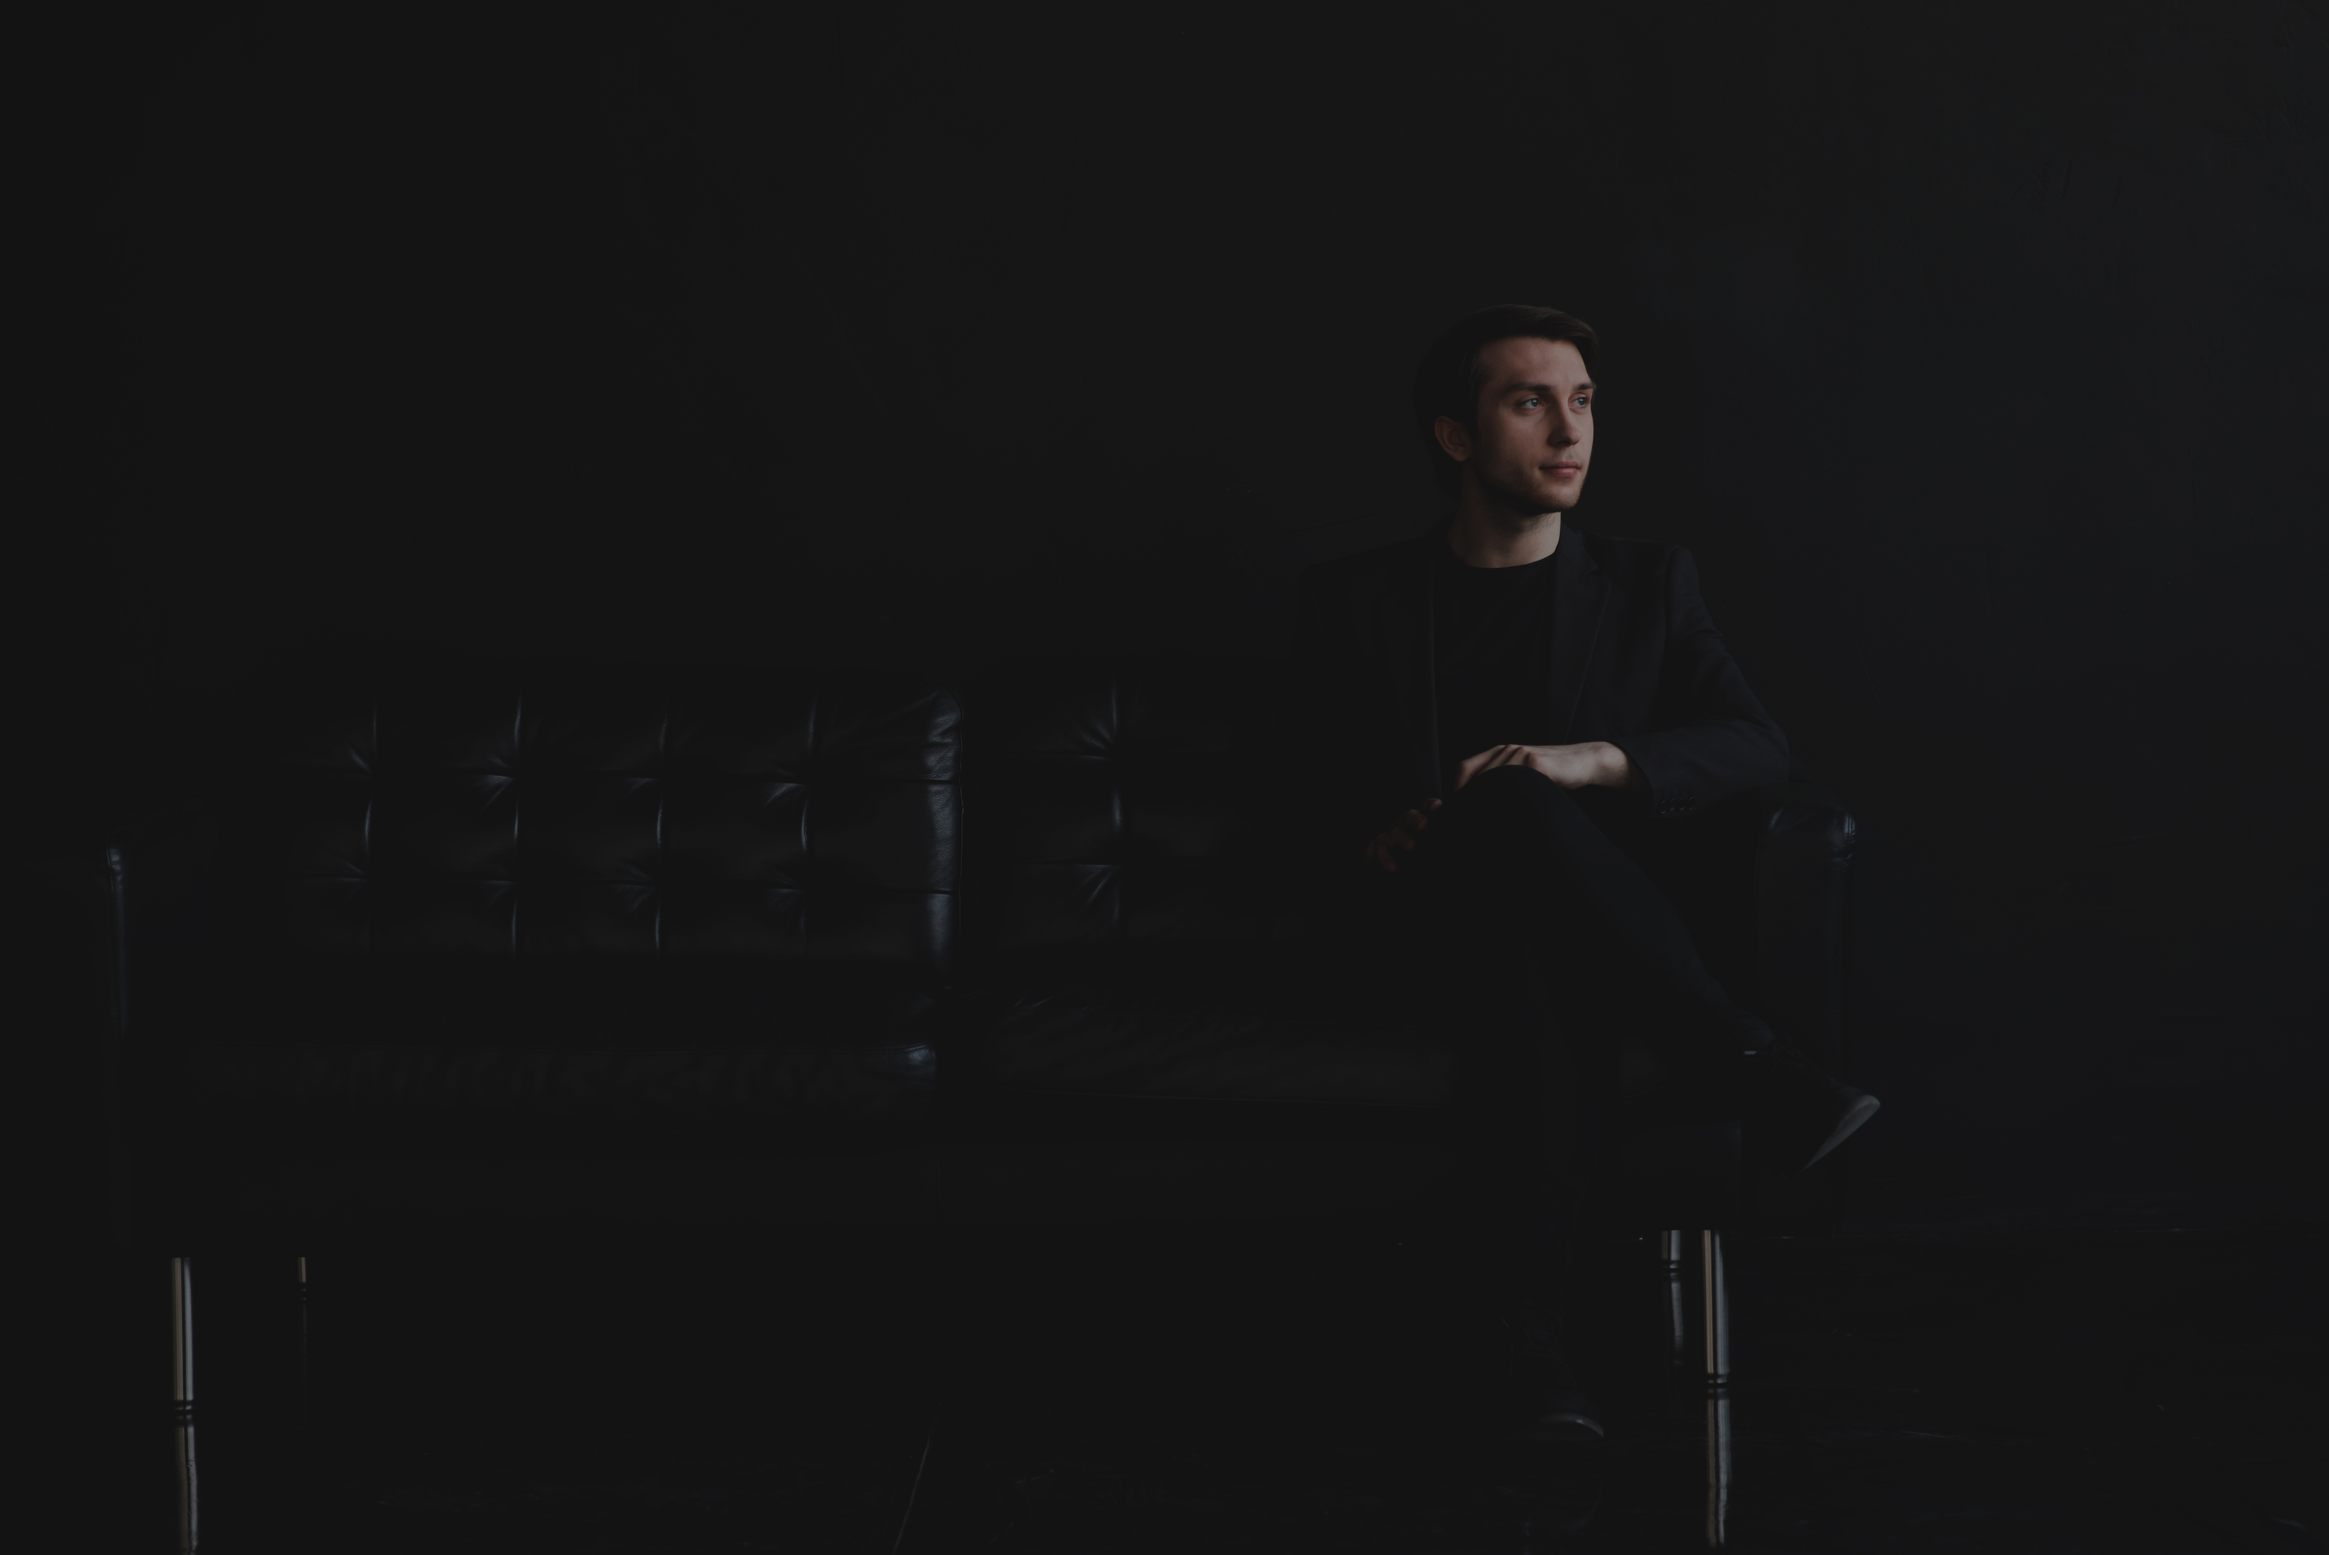
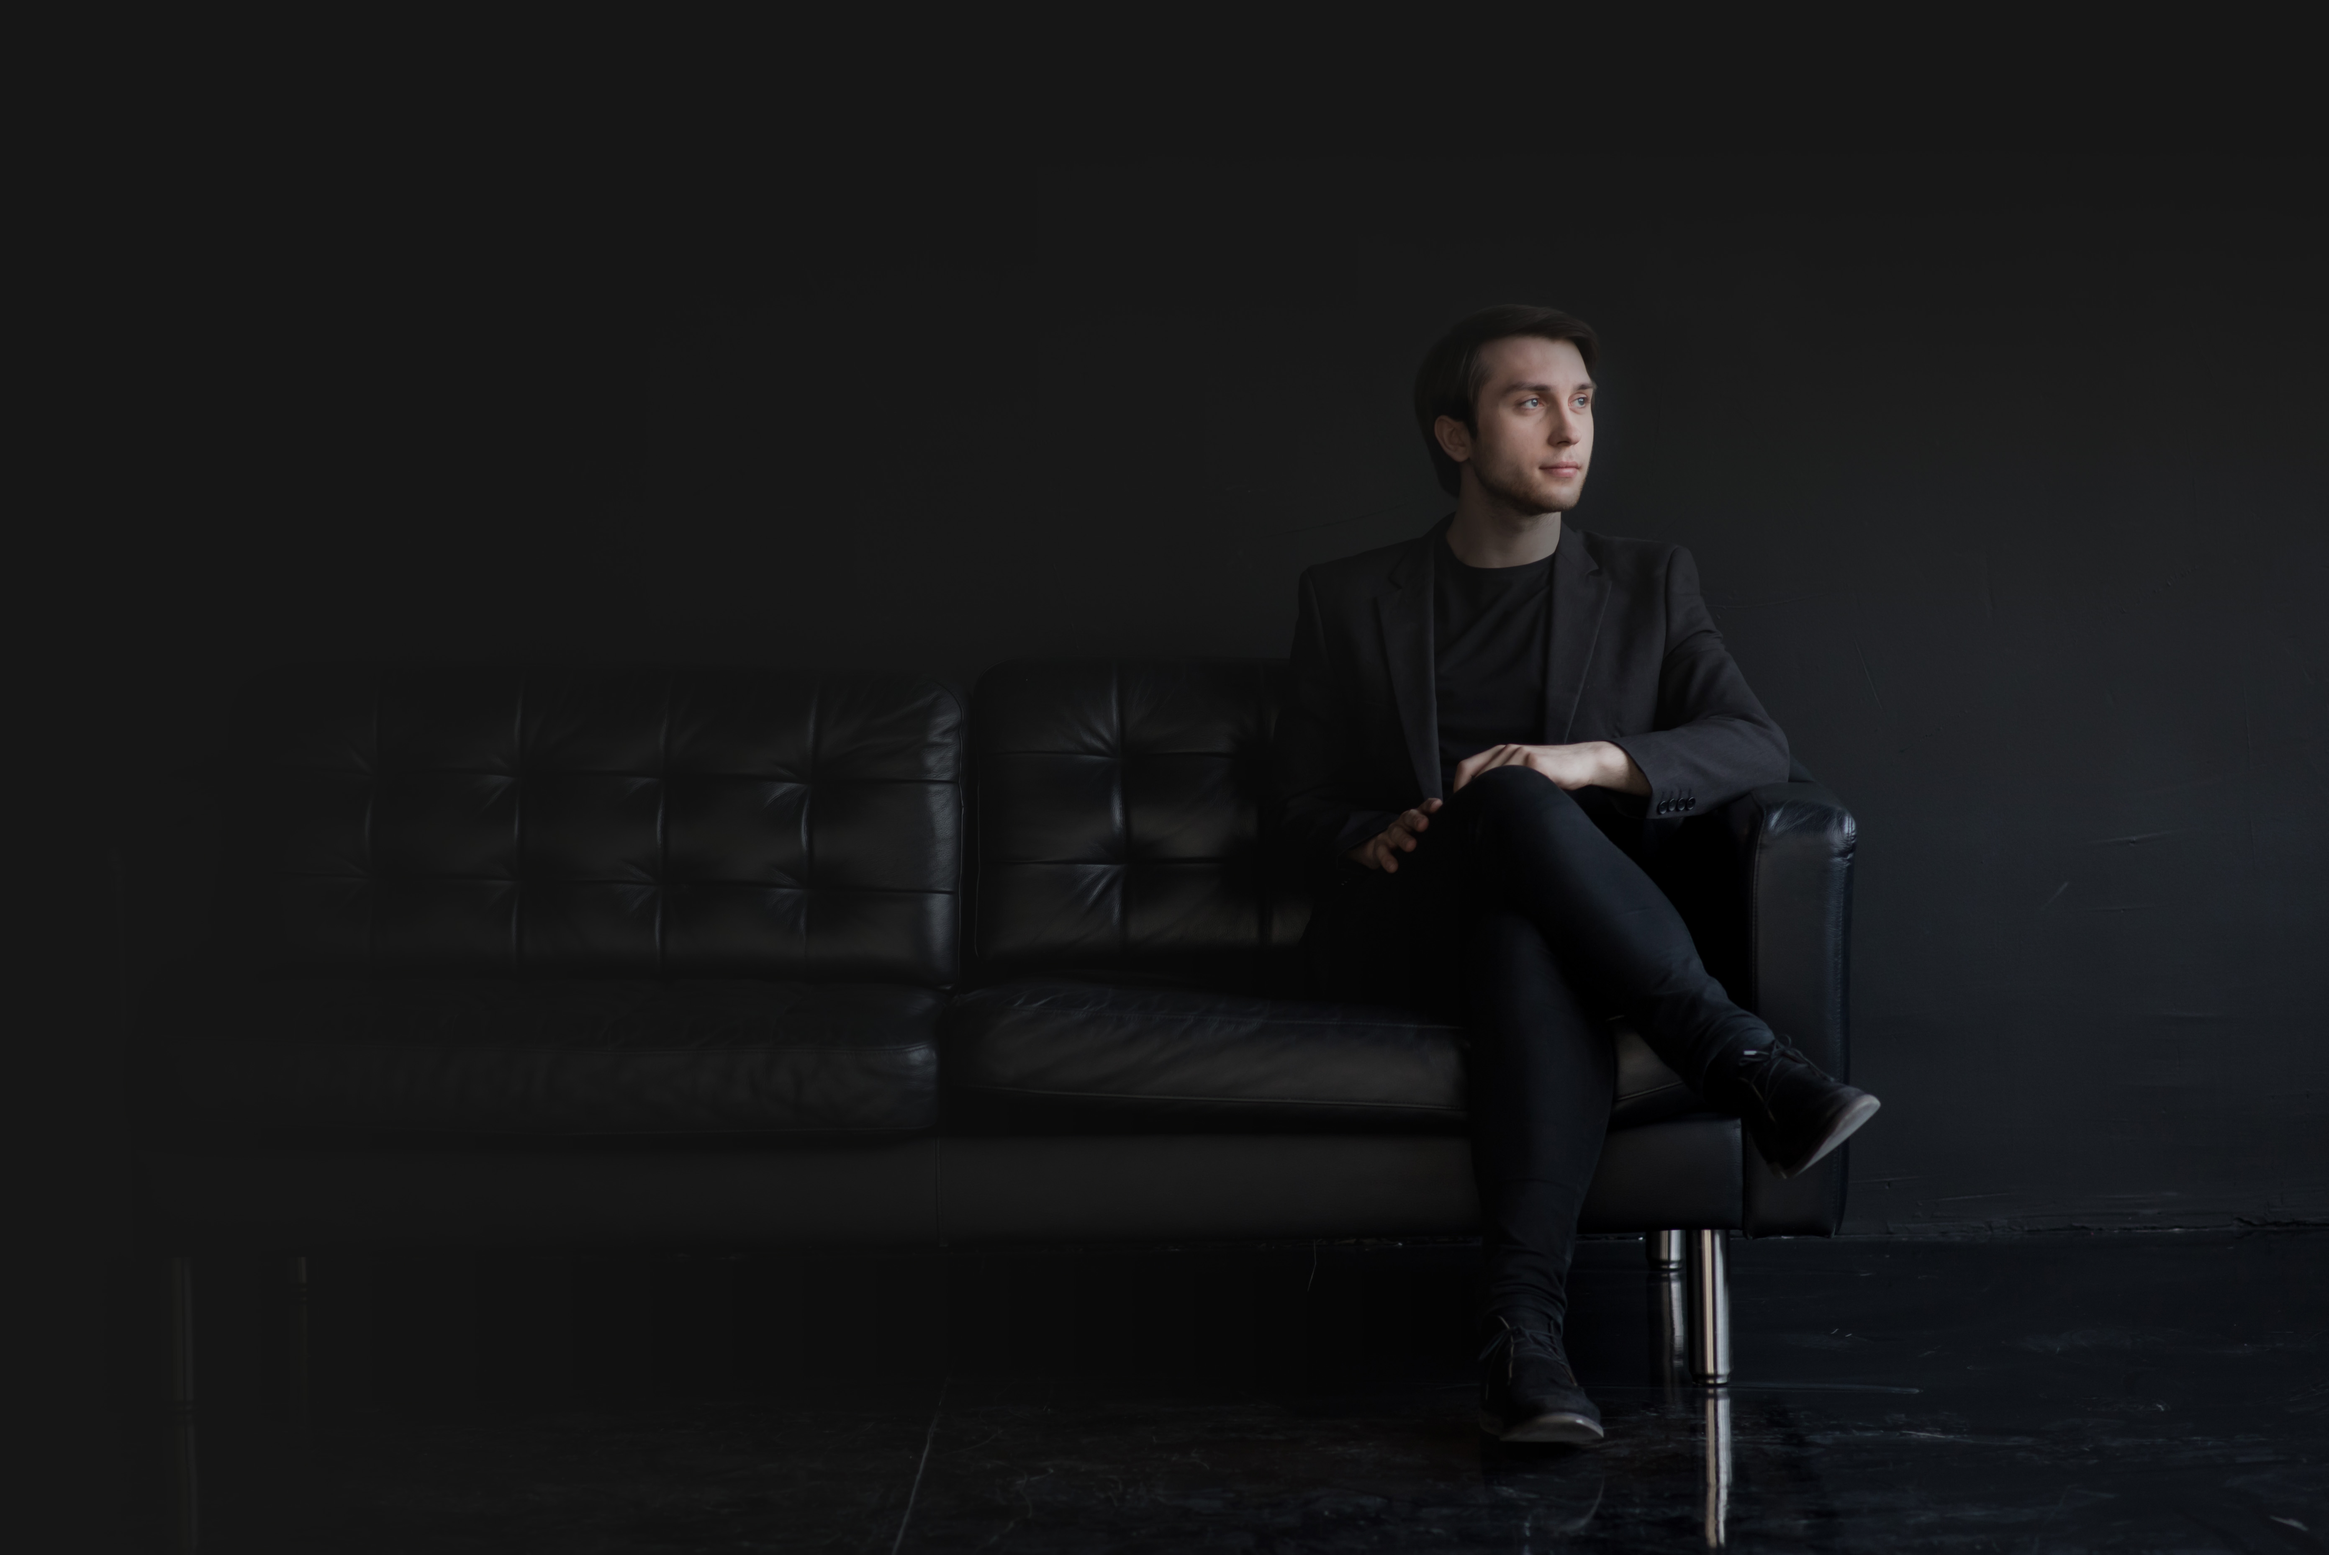
photos with gradient

diff --git a/src/components/About/About.js b/src/components/About/About.js
@@ -11,7 +11,7 @@ const About = () => {
                     {t('about.h3')}
                 </h3>
                 <div className='img-container'>
-                    <img className='about-img' src={require('../../assets/img/DSC_8981.jpg')} alt='portrait' />
+                    <img className='about-img' src={require('../../assets/img/DSC_8981-2.jpg')} alt='portrait' />
                     {/* <p className='about-text'>
                         {t('about.about-text')}
                     </p> */}

diff --git a/src/components/About/about.css b/src/components/About/about.css
@@ -10,8 +10,8 @@
 }
 
 .about-section {
-    background: rgb(22, 22, 22);
-    background: linear-gradient(180deg, rgba(22, 22, 22, 1) 0%, rgba(22, 22, 21, 0) 24%, rgba(27, 27, 29, 1) 76%);
+    background: rgb(22,22,22);
+    background: linear-gradient(180deg, rgba(22,22,22,1) 0%, rgba(33,34,36,1) 100%);
     color: #c0c0c0;
     display: flex;
     align-items: center;

diff --git a/src/components/Hero/hero.css b/src/components/Hero/hero.css
@@ -2,7 +2,7 @@
     box-sizing: border-box;
     width: 100%;
     height: 100vh;
-    background-image: url('../../assets/img/cover.jpg');
+    background-image: url('../../assets/img/cover3.jpg');
     background-size: cover;
     background-position: center;
     color: white;

diff --git a/src/components/Disc/disc.css b/src/components/Disc/disc.css
@@ -1,5 +1,5 @@
 #disc {
-    background-image: url('../../assets/img/cover2.jpg');
+    background-image: url('../../assets/img/DSC_8694-2.jpg');
     background-size: cover;
     background-position: center;
     width: 100%;
